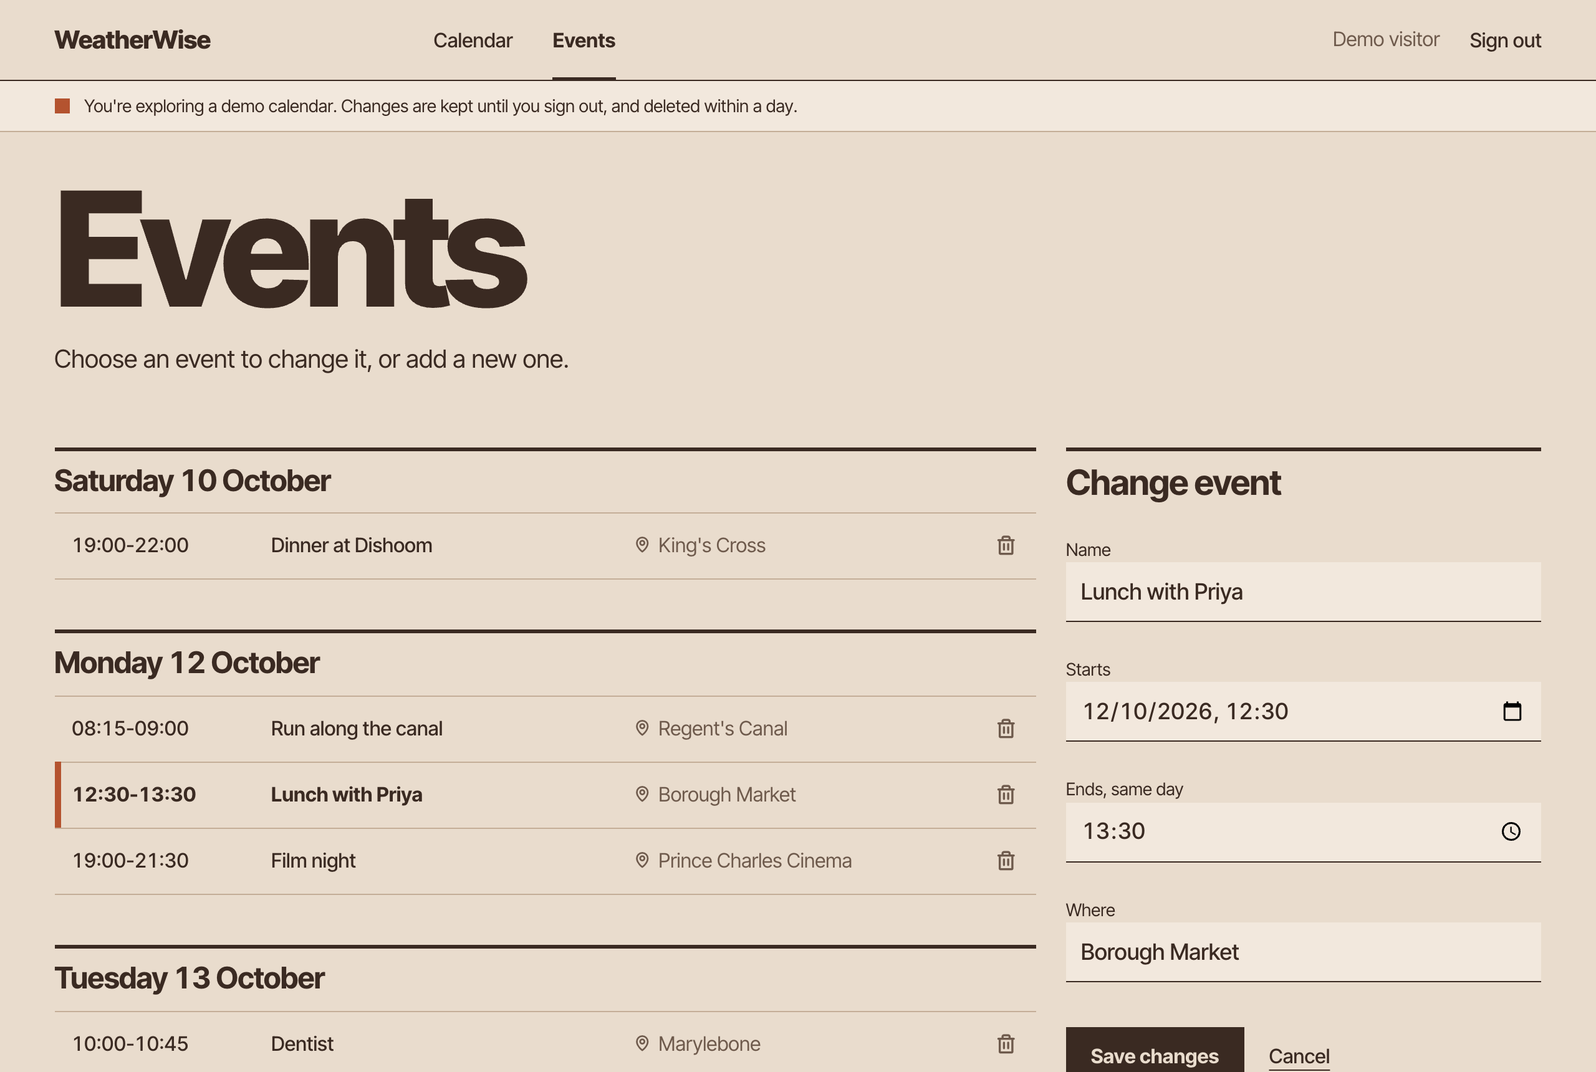
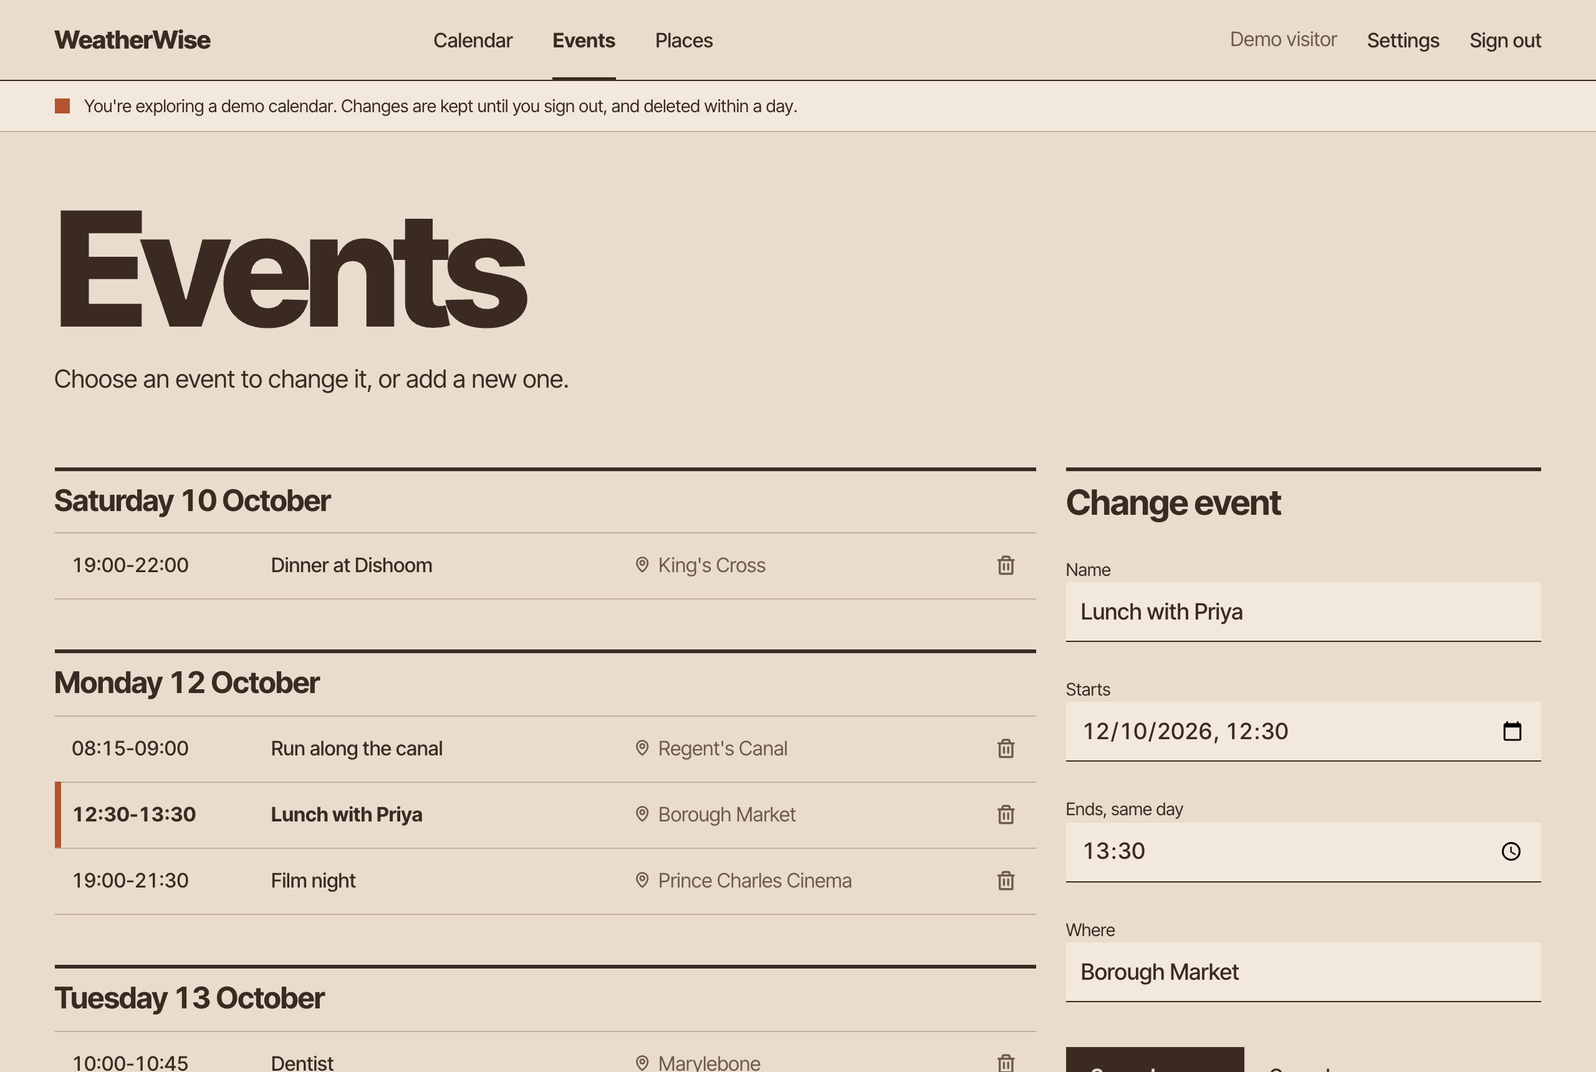
Docs: places, suggestions and the map
README: what places, suggestions and settings do, how a fit is decided,
the data model with place and user_settings, migration 002, the place
and suggestion API, and new screenshots (good days ahead, a day's
panel, the places map). The folder READMEs cover the places blueprint,
db_place and db_settings, address search and the suggestion service.

diff --git a/README.md b/README.md
@@ -12,9 +12,12 @@ A personal calendar with London's weather beside it, so you can plan around the 
 
 - **Today at a glance:** current temperature and conditions, the day's range and when rain is most likely, with rain that sways as your cursor passes like a gust of wind.
 - **Hour by hour:** today's forecast as a chart, one column per hour: temperature bars, the chance of rain, and your events laid along the same hours.
-- **The month:** daily weather and UK public holidays on every day, with your events.
+- **The month:** daily weather and UK public holidays on every day, with your events. Choose any day to open its forecast, events and suggestions.
 - **Events:** add, change and delete events from one page.
-- **Accounts:** sign in with Google; each person has their own private calendar.
+- **Places:** keep the places you like (parks, museums, cafés...) with the weather each one suits and, if you like, a temperature range. Pin them on a map by address search or by clicking, and open any of them in Google Maps.
+- **Suggestions:** your places are matched against the 16-day forecast, hour by hour, to find the best time for a visit: today's best fit at the top of the calendar, the good days ahead below the hours, a ✓ on good days in the month. One click turns a suggestion into an event, with Undo.
+- **Settings:** which days to get suggestions for (every day, weekends, or chosen days), the hours to search on weekdays and at weekends, and whether to skip days that already have plans.
+- **Accounts:** sign in with Google; each person has their own private calendar and places.
 
 ## Screenshots
 
@@ -22,9 +25,21 @@ A personal calendar with London's weather beside it, so you can plan around the 
 
 ![Home page: today's weather, the hourly temperature and rain chart, and today's events](docs/screenshots/home.png)
 
-**The month.** Each day's forecast and events; today is marked in terracotta.
+**The month.** Each day's forecast and events; today is marked in terracotta, and a ✓ marks days that suit one of your places.
 
-![The month: daily weather icons and events, with today highlighted](docs/screenshots/month.png)
+![The month: daily weather icons, events and good-day marks, with today highlighted](docs/screenshots/month.png)
+
+**Good days ahead.** The coming days that suit your places, with the best time and how sure the forecast is.
+
+![Good days ahead: each coming day with its weather, the best time and the places that suit it](docs/screenshots/good-days.png)
+
+**A day, opened from the month.** Its weather, your events, and the places that suit it, each with the best time and one-click Add.
+
+![A day's panel: weather, events and suggestions with Add buttons](docs/screenshots/day.png)
+
+**Places.** Your places on a map, each pin marked with how it suits today; a pin's card links to Google Maps and directions.
+
+![Places: a map of London with pins marked Great, Okay or Not ideal, and the list of places](docs/screenshots/places.jpg)
 
 **Events.** Every event grouped by day; pick one to change it.
 
@@ -41,20 +56,42 @@ A personal calendar with London's weather beside it, so you can plan around the 
   </tr>
 </table>
 
-Screenshots use the demo account's sample events.
+Screenshots use the demo account's sample events and places.
+
+## How suggestions work
+
+Each forecast day and hour is **sunny**, **dry but cloudy**, **rain likely** or **snow and storms**, from its weather code and chance of rain. A place fits it:
+
+| Weather | The place ticks it | Otherwise |
+|---|---|---|
+| Sunny, dry but cloudy | ✓ Great | – Okay (any place is fine when it's dry) |
+| Rain likely | ✓ Great: a rainy-day pick, since ticking rainy means indoors | ✕ Not ideal |
+| Snow or storms | – Okay if indoors | ✕ Not ideal |
+
+- A temperature outside the place's range, or strong wind at an outdoor place, lowers the fit a step, and the suggestion says why. Outdoor places don't fit after dark.
+- A place that suits any weather is Okay every day: it's put forward only when nothing fits better, so it never makes every day look good.
+- For each place the best time for a visit of its usual length is searched hour by hour inside your hours (by default weekdays 18:00-21:00 and weekends 09:00-18:00), avoiding the wettest hours.
+- Today only suggests what can still start; a place already planned that day isn't suggested again.
+- Each day says how far the forecast can be trusted: **Likely** (the next 3 days), **Possible** (up to a week), **Early look** (beyond).
+- Fits are always an icon and a word as well as a colour, so they don't depend on telling colours apart.
+
+The weather is London's, from one point in the centre, wherever a place is.
 
 ## How it's built
 
 - **Flask** (Python), server-rendered with Jinja templates, plus a small JSON API
 - **PostgreSQL** (Neon) through SQLAlchemy
 - **Open-Meteo** for weather (with **MET Norway** as an automatic backup) and **Nager.Date** for public holidays
+- **Leaflet** with **OpenStreetMap** tiles for the places map, and OpenStreetMap's **Nominatim** for address search (no API keys)
 - **Sign-in:** Google OpenID Connect via Authlib, sessions via Flask-Login, CSRF protection via Flask-WTF
 - Hosted on **Render**; CI on **GitHub Actions** (flake8 and pytest on every push and pull request)
 
 ```
-Browser ──▶ Flask app ──┬─▶ web_routes (pages)  ─┐
-                        ├─▶ api_routes (JSON)   ─┼─▶ database/ ──▶ PostgreSQL
-                        └─▶ auth_routes (sign-in)┘   services/ ──▶ Open-Meteo, Nager.Date
+Browser ──▶ Flask app ──┬─▶ web_routes (pages)     ─┐
+                        ├─▶ places_routes (places) ─┤
+                        ├─▶ api_routes (JSON)      ─┼─▶ database/ ──▶ PostgreSQL
+                        └─▶ auth_routes (sign-in)  ─┘   services/ ──▶ Open-Meteo, Nager.Date
+                                                         api/      ──▶ Nominatim
 ```
 
 ### Data model
@@ -62,6 +99,9 @@ Browser ──▶ Flask app ──┬─▶ web_routes (pages)  ─┐
 ```mermaid
 erDiagram
     app_user ||--o{ event : owns
+    app_user ||--o{ place : keeps
+    app_user ||--o| user_settings : has
+    place |o--o{ event : "made from"
     app_user {
         int id
         string google_sub "Google's permanent account id"
@@ -77,10 +117,37 @@ erDiagram
         timestamp end_time
         string location
         int user_id
+        int place_id "the place it was made from, if any"
+    }
+    place {
+        int id
+        int user_id
+        string name
+        string category
+        string address
+        float latitude
+        float longitude
+        string notes
+        bool suits_sunny
+        bool suits_cloudy
+        bool suits_rainy "indoors"
+        int temp_min
+        int temp_max
+        int visit_minutes
+    }
+    user_settings {
+        int user_id
+        string suggest_days "Monday 0 to Sunday 6"
+        int weekday_start
+        int weekday_end
+        int weekend_start
+        int weekend_end
+        bool skip_busy_days
+        bool show_today
     }
 ```
 
-One calendar per person: every event belongs to exactly one account, and every query is limited to the signed-in account. Someone else's event is reported as "not found".
+One calendar per person: every event and place belongs to exactly one account, and every query is limited to the signed-in account. Someone else's event or place is reported as "not found". Deleting a place keeps the events made from it. An account without settings uses the defaults.
 
 ## Accounts and security
 
@@ -88,7 +155,7 @@ One calendar per person: every event belongs to exactly one account, and every q
 - **Sessions** are signed cookies (`SECRET_KEY`) holding only the user id: HttpOnly, SameSite=Lax, HTTPS-only in production, 30 days.
 - **Every page and API call needs a signed-in user.** Pages redirect to sign-in; the API answers `401`.
 - **CSRF tokens** on every form. The JSON API is exempt: browsers won't send JSON, PATCH or DELETE to it from another site.
-- **Try the demo** creates a fresh throwaway account with sample events. It's deleted on sign-out or within a day, and at most 200 exist at once.
+- **Try the demo** creates a fresh throwaway account with sample events and places. It's deleted on sign-out or within a day, and at most 200 exist at once.
 - **Errors** are logged on the server; visitors only see a plain message.
 
 ## Running it locally
@@ -116,12 +183,13 @@ Changes to a database that's already in use go in numbered migration scripts in 
 | Script | What it does |
 |---|---|
 | `001_accounts.sql` | Adds accounts (`app_user`), gives every event an owner, removes the old profile tables. Events from before accounts existed are discarded. |
+| `002_places.sql` | Adds places (`place`), suggestion settings (`user_settings`) and `event.place_id`. Nothing is discarded. |
 
 `SQL_command.sql` rebuilds everything from scratch and **deletes all data**; use it only for a new, empty database.
 
 ## API
 
-All endpoints are under `/api`, need a signed-in session, and only ever see the signed-in account's events.
+All endpoints are under `/api`, need a signed-in session, and only ever see the signed-in account's events and places.
 
 | Endpoint | Method | Description |
 |---|---|---|
@@ -130,6 +198,12 @@ All endpoints are under `/api`, need a signed-in session, and only ever see the 
 | `/api/events` | POST | Create an event (JSON: `name`, `start_time`, `end_time`, `location`) |
 | `/api/events/<id>` | PATCH | Change an event |
 | `/api/events/<id>` | DELETE | Delete an event |
+| `/api/places` | GET | Your places |
+| `/api/places/<id>` | GET | One of your places |
+| `/api/places` | POST | Create a place (JSON: `name`, `category`, and optionally `address`, `latitude`, `longitude`, `notes`, `suits_sunny`, `suits_cloudy`, `suits_rainy`, `temp_min`, `temp_max`, `visit_minutes`) |
+| `/api/places/<id>` | PATCH | Change a place (only the fields sent) |
+| `/api/places/<id>` | DELETE | Delete a place; events made from it are kept |
+| `/api/suggestions` | GET | Every forecast day with how each of your places fits it, best first, and the best time |
 
 Responses share one shape: `{"statusCode": 200, "statusMessage": "SUCCESS", "data": {...}}`.
 
@@ -140,7 +214,7 @@ flake8 .
 pytest tests/
 ```
 
-The tests need no database or network: database and API calls are replaced with stand-ins. More detail in [`routes/README.md`](routes/README.md) (pages, API, sign-in), [`database/README.md`](database/README.md) (schema, migrations), [`services/README.md`](services/README.md) (weather, holidays, the calendar) and [`tests/README.md`](tests/README.md).
+The tests need no database or network: database and API calls are replaced with stand-ins. More detail in [`routes/README.md`](routes/README.md) (pages, API, sign-in), [`database/README.md`](database/README.md) (schema, migrations), [`services/README.md`](services/README.md) (weather, holidays, the calendar, suggestions) and [`tests/README.md`](tests/README.md).
 
 ## Support
 

diff --git a/services/README.md b/services/README.md
@@ -16,8 +16,9 @@ Settings (location, time zone, API URLs, timeout) live in `config.py`.
 |---|---|---|
 | `weather_api.py` | [Open-Meteo](https://open-meteo.com), backup [MET Norway](https://api.met.no) | `fetch_forecast()`: current, hourly and 16-day forecast. Tries `fetch_open_meteo()` (one request for everything); if that fails, `fetch_met_norway()` |
 | `holiday_api.py` | [Nager.Date](https://date.nager.at) | `fetch_public_holidays(year, country_code)` |
+| `geocode_api.py` | [Nominatim](https://nominatim.org) (OpenStreetMap) | `search(query)`: up to 5 addresses in Greater London for a place's pin |
 
-`fetch_forecast()` returns the same "forecast bundle" from either source: `current`, `hourly` (London times) and `daily` (`{"YYYY-MM-DD": code}`), all with WMO weather codes. MET Norway's symbols (`lightrainshowers_day`, ...) are converted to WMO codes, its UTC times to London time, and a day's weather is the forecast nearest midday. It has no chance of rain for the UK, so `rain_chance` is empty then and the page leaves the rain sentence out.
+`fetch_forecast()` returns the same "forecast bundle" from either source: `current`, `hourly` (London times, each with whether it is day), `daily` (`{"YYYY-MM-DD": code}`) and `days` (each day's high, low, highest chance of rain and strongest wind), all with WMO weather codes. MET Norway's symbols (`lightrainshowers_day`, ...) are converted to WMO codes, its UTC times to London time, and a day's weather is the forecast nearest midday. It has no chance of rain for the UK, so `rain_chance` is empty then and the page leaves the rain sentence out.
 
 Why a backup: Open-Meteo's free tier limits requests per IP address, and hosts like Render share addresses between many apps, so it can answer `429 Too Many Requests` for reasons that have nothing to do with this app. Every request carries a `User-Agent` naming the app (`Config.USER_AGENT`), which MET Norway requires.
 
@@ -30,6 +31,8 @@ Any failure (timeout, connection, HTTP error) becomes `WeatherAPIError`; `fetch_
 | `weather_service.get_current_weather()` | `WeatherReading` for now |
 | `weather_service.get_hourly_forecast_today()` | 24 `WeatherReading`s for today, one per hour; hours the source doesn't cover have no values |
 | `weather_service.get_daily_forecast()` | `{"YYYY-MM-DD": WeatherCode}`; days with no usable forecast are left out |
+| `weather_service.get_day_outlooks()` | A `DayOutlook` for each forecast day from today: its weather, high, low, rain chance, wind and hours |
+| `planner.account_plans(user_id)` | `AccountPlans`: the account's places, settings and a `DayPlan` per forecast day; empty, never an error, if anything is missing |
 | `holiday_service.get_public_holidays(year)` | `{date: [holiday names]}`, cached per year |
 | `calendar_service.get_full_calendar(year, month)` | `CalendarMonth`: weeks of days, each with its holidays and forecast |
 | `datetime_service.get_today_detail()` | Today in London: day, month, year, hour, names |
@@ -54,3 +57,15 @@ Times and "today" are always London time (`Config.TIMEZONE`), matching the forec
 Each has `to_dict()` for templates and JSON.
 
 Labels come from `static/data/code_icon.json`, which maps each WMO code to a label. The pages draw weather with [Phosphor](https://phosphoricons.com) icons chosen from the code (`templates/_macros.html`, `weather_glyph`); the `icon` file names in that JSON are left over from an earlier design and aren't displayed.
+
+## Suggestions (`suggestion_service.py`)
+
+Matches places against the forecast, with no database or web code, so it is tested on its own (`tests/unit/test_suggestion_service.py`).
+
+- `classify(code, rain_chance)`: the kind of weather (sunny, cloudy, rainy, severe).
+- `base_fit(place, kind)`: great, okay or poor (see "How suggestions work" in the main README).
+- `best_time(place, day, start_hour, end_hour)`: slides a visit of the place's length through the hours, hour by hour, and keeps the best fit, then the driest; temperature, wind and darkness are taken into account. `judge_day` judges the whole day when there are no hours.
+- `plan_day` / `plan_days`: every place for each day, best first, honouring the settings window, what is still ahead today, and the account's events that day.
+- `today_pick`, `good_days_ahead`: what the calendar puts forward.
+
+`planner.py` gathers the inputs for an account (places, settings, forecast, the next 16 days' events) and calls it. Address search is paced to one request a second and cached for a day, as Nominatim's usage policy asks; it only runs when someone presses Search.

diff --git a/database/README.md b/database/README.md
@@ -9,12 +9,14 @@ The data layer between the routes and PostgreSQL, using SQLAlchemy.
 | `sql_scripts/SQL_command.sql` | Builds the schema from scratch, with sample data (**deletes everything**) |
 | `sql_scripts/001_accounts.sql` | Migration: accounts and event ownership (see below) |
 
-Models live in `models/db_models/`: `AppUser` (`user.py`) and `Event` (`event.py`). Account helpers (Google, the local developer account, demos) are in `utils/auth.py` and `utils/demo.py`.
+Models live in `models/db_models/`: `AppUser` (`user.py`), `Event` (`event.py`), `Place` (`place.py`) and `UserSettings` (`settings.py`). Account helpers (Google, the local developer account, demos) are in `utils/auth.py` and `utils/demo.py`.
 
 ## Schema
 
 - **`app_user`**: one row per person. `google_sub` is Google's permanent account id (unique, empty for demo accounts), plus `email`, `name`, `is_demo` and `created_at`.
-- **`event`**: `name`, `start_time`, `end_time`, `location` and `user_id`. Every event belongs to exactly one account; deleting the account deletes its events (`ON DELETE CASCADE`).
+- **`event`**: `name`, `start_time`, `end_time`, `location`, `user_id`, and `place_id` if it was made from a place. Every event belongs to exactly one account; deleting the account deletes its events (`ON DELETE CASCADE`). Deleting a place keeps its events (`ON DELETE SET NULL`).
+- **`place`**: `name`, `category` (one of `CATEGORIES` in `place.py`), `address`, an optional pin (`latitude`, `longitude`), `notes`, the weather it suits (`suits_sunny`, `suits_cloudy`, `suits_rainy`; rainy means indoors), an optional `temp_min`/`temp_max`, `visit_minutes` and `user_id`.
+- **`user_settings`**: at most one row per account: `suggest_days` (weekday digits, Monday 0), `weekday_start`/`weekday_end`, `weekend_start`/`weekend_end` (hours), `skip_busy_days`, `show_today`. Without a row, the defaults: every day, weekdays 18-21, weekends 9-18.
 
 Times are stored without a time zone, in London time.
 
@@ -29,6 +31,9 @@ Every function takes the id of the account the request is for:
 | `create_event(data, user_id)` | The new event (`201`) |
 | `update_event(eventid, data, user_id)` | The changed event |
 | `delete_event(eventid, user_id)` | A confirmation |
+| `events_between(user_id, start, end)` | The account's events starting in that range, with datetimes (for the day panel and suggestions) |
+
+`create_event` also takes an optional `place_id`, which must be one of the account's own places.
 
 Rules every function follows:
 
@@ -48,4 +53,12 @@ psql "$DATABASE_URL" -f database/sql_scripts/001_accounts.sql
 
 `001_accounts.sql` adds `app_user` and `event.user_id`, and removes the old `profile` and `eventxprofile` tables. Events from before accounts existed have no owner and are discarded; this only happens the first time it runs.
 
+`002_places.sql` adds `place`, `user_settings` and `event.place_id`. It discards nothing.
+
 Keep `SQL_command.sql` in step with the migrations so a fresh database matches a migrated one.
+
+## `db_place.py` and `db_settings.py`
+
+`db_place.py` mirrors `db_event.py` for places (`get_places`, `get_place_by_id`, `create_place`, `update_place`, `delete_place`, plus `list_places` for pages), with the same ownership and error rules. `clean_place` checks a place before it is stored: a name of up to 60 characters, a known category, at least one kind of weather, a temperature range between -30° and 50° with the lowest not above the highest, a visit of 15 minutes to 12 hours, and a pin with both coordinates or neither. The page's form sends `weather_form`, so an unticked box there means "no"; JSON callers change only the fields they send.
+
+`db_settings.py` reads an account's preferences (`get_preferences`, defaults if none are saved), checks the settings form (`clean_preferences`) and saves them (`save_preferences`).

diff --git a/routes/README.md b/routes/README.md
@@ -6,11 +6,12 @@ Flask blueprints that turn HTTP requests into pages and JSON. Data access lives 
 |---|---|---|
 | `auth_routes.py` | `auth` | Sign-in page, Google sign-in, the demo, sign-out |
 | `web_routes.py` | `web` | The calendar and events pages, and their forms |
+| `places_routes.py` | `places` | The places page and map, settings, and turning a suggestion into an event |
 | `api_routes.py` | `api` | The JSON API under `/api` |
 
 ## Who can reach what
 
-`utils.auth.require_login` runs before every request. The `web` and `api` blueprints need a signed-in user; `auth` and static files are open.
+`utils.auth.require_login` runs before every request. The `web`, `places` and `api` blueprints need a signed-in user (`PROTECTED` in `utils/auth.py`); `auth` and static files are open. A new blueprint must be added to `PROTECTED`.
 
 - Signed out, a **page** redirects to `/login?next=<where you were going>`. For a form submission, `next` is the page the form was on.
 - Signed out, the **API** answers `401` with a JSON error.
@@ -35,9 +36,9 @@ Every sign-in starts a fresh session. Real accounts keep it for 30 days; a demo'
 
 | Route | Method | What it does |
 |---|---|---|
-| `/` | GET | Today's weather, the hourly strip with today's events, and the month |
+| `/` | GET | Today's suggestion, today's weather, the hourly chart with today's events, the good days ahead, and the month; `?day=YYYY-MM-DD` opens that day's panel |
 | `/reload` | GET | Back to `/` (the refresh button) |
-| `/management/event` | GET | All your events, and the form to add or change one (`?selected_eventid=` picks one) |
+| `/management/event` | GET | All your events, and the form to add or change one (`?selected_eventid=` picks one; `?day=` starts a new one on that day) |
 | `/management/event/load` | POST | Selects an event to change |
 | `/management/event/create` | POST | Adds an event |
 | `/management/event/update` | POST | Changes an event |
@@ -54,5 +55,22 @@ Form posts carry a CSRF token (Flask-WTF). A post without a valid one changes no
 | `/api/events` | POST | JSON `name`, `start_time`, `end_time`, `location` (ISO 8601 times) |
 | `/api/events/<id>` | PATCH | JSON with any of the fields above |
 | `/api/events/<id>` | DELETE | |
+| `/api/places` | GET, POST | POST: JSON `name`, `category` and any other place fields |
+| `/api/places/<id>` | GET, PATCH, DELETE | PATCH: only the fields sent change |
+| `/api/suggestions` | GET | |
 
 All responses use `{"statusCode", "statusMessage", "data"}` (`utils/response.py`). The API is exempt from CSRF tokens: browsers won't send JSON, PATCH or DELETE to it from another site without a CORS approval this app never gives.
+
+## Places and suggestions (`places_routes.py`)
+
+| Route | Method | What it does |
+|---|---|---|
+| `/places` | GET | Your places on a map and in a list, and the form to add or change one (`?selected_placeid=` picks one) |
+| `/places/load` | POST | Selects a place to change |
+| `/places/create`, `/places/update`, `/places/delete` | POST | Adds, changes or deletes a place (deleting keeps its events) |
+| `/places/search` | GET | Address search for the map (`?q=`), as JSON; see `api/geocode_api.py` |
+| `/settings` | GET, POST | Which days to suggest, the weekday and weekend hours, skipping busy days, the today strip |
+| `/suggestions/add` | POST | Turns a suggestion into an event at the place (`placeid`, `start`, `end`), then back to `next` |
+| `/suggestions/undo` | POST | Deletes the event just added |
+
+After `/suggestions/add` the session holds the new event's id for one page, which shows "Added ..." with **Undo** and **Change**. `next` is only followed to paths on this site.
